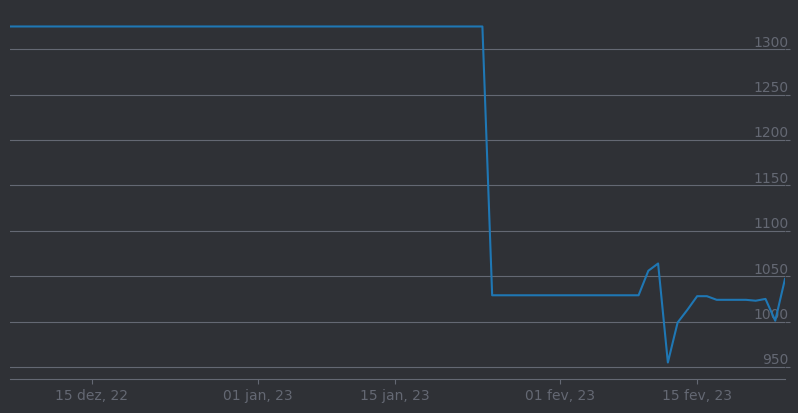
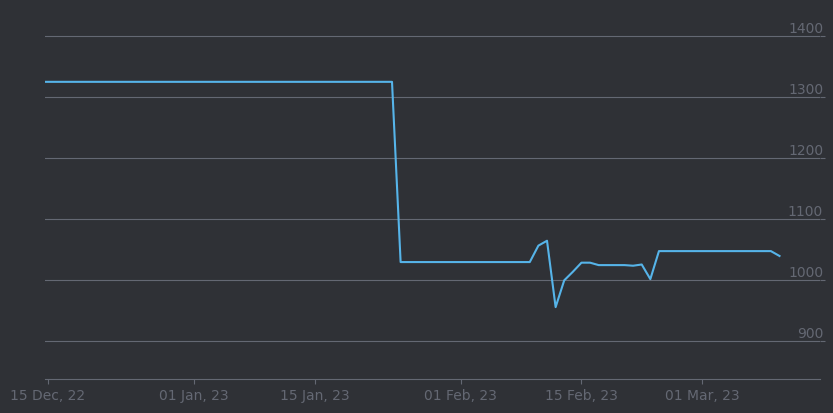
Finished rating history command
yeah done it ez

diff --git a/cogs/users.py b/cogs/users.py
@@ -16,6 +16,140 @@ import datetime
 from utils import constants
 
 
+def graph(data, xmin):
+
+
+    fig = plt.figure()
+    ax = fig.add_subplot()
+
+    grey_color = '#646873'
+
+    fig.set_facecolor('#2f3136')
+    ax.set_facecolor('#2f3136')
+    ax.spines['bottom'].set_color(grey_color)
+    ax.spines['right'].set_color(grey_color)
+    ax.tick_params(axis='x', colors=grey_color)
+    ax.tick_params(axis='y', colors=grey_color,direction='out',pad=-1)
+    ax.yaxis.tick_right()
+    ax.spines[['left','top','right']].set_visible(False)
+    ax.grid(color=grey_color,axis='y')
+    fig.set_figwidth(10)
+
+    formatter = mdates.AutoDateFormatter(mdates.AutoDateLocator())
+    formatter.scaled[365] = "%h, %y"
+    formatter.scaled[30] = "%h, %Y"
+    formatter.scaled[1] = "%d %h, %y"
+
+    ax.xaxis.set_major_formatter(formatter)
+    ax.xaxis.set_major_locator(mdates.AutoDateLocator())
+
+    for variant in data:
+        
+
+        points = variant['points']
+        name = variant['name']
+
+        
+        # Arranging the data 
+
+        dates = []
+        ratings = []
+
+        for entry in points:
+            date = datetime.datetime(year=entry[0], month=entry[1]+1, day=entry[2])
+            dates.append(date)
+
+        ratings = [entry[3] for entry in points]
+        
+
+        # Make lines go straight when there is not data
+
+        for date in dates:
+            index = dates.index(date) 
+            day_before = date - datetime.timedelta(days=1)
+            if day_before not in dates and index !=0:
+                dates.insert(index, day_before)
+                ratings.insert(index, ratings[index-1])
+
+        # Creating the graph and costumizing it
+
+        plt.plot(dates, ratings, color = constants.graph_variants[name]['colour'], dashes=(4,4) if constants.graph_variants[name]['dash'] else (None, None))
+
+
+    ## FINISHING THE GRAPH
+
+
+    # Find ymax and ymin for the graph
+
+
+    if xmin != None:
+            
+        for i in range(len(dates)):
+            if dates[i] >= xmin:
+                xmin_i = i-1 if i!= 0 else i
+                break
+        
+        
+        plt.xlim(xmin, datetime.datetime.today())
+        ymin, ymax = ax.get_ylim()
+        if len(points) == 1:
+            ymax = max(ratings[xmin_i:])
+        plt.ylim(ymin-100,ymax+100)
+
+        
+    else:
+        ymin, ymax = ax.get_ylim()
+        plt.ylim(ymin-100,ymax+100)
+
+    ax.set_yticklabels(ax.get_yticklabels(), ha="right", va="bottom")
+
+    labels = []
+    for label in ax.get_xticklabels():
+        label = label.get_text().title()
+        labels.append(label)
+
+    ax.set_xticklabels(labels)
+
+
+
+    return plt.savefig('utils/media/image.png',bbox_inches='tight')
+
+
+class RHDropdown(discord.ui.Select):
+    def __init__(self, data, xmin):
+        self.data = data
+        self.xmin = xmin
+
+        options = [
+            discord.SelectOption(label='All variants', description='Display all variants.', value='All', emoji='<:rainbowcircle:1085206360691576942>')
+        ]
+        super().__init__(placeholder='Choose the variants you want to see...', min_values=1, max_values=1, options=options)
+
+    async def callback(self, interaction: discord.Interaction):
+
+        name = self.values[0]
+        data = self.data
+        new_data = []
+
+        if name == 'All':
+            new_data = data
+        else:
+            for variant in self.data:
+                if variant['name'] == name:
+                    new_data.append(variant)
+
+        embed = interaction.message.embeds[0]
+        graph(data=new_data, xmin=self.xmin)
+        file = [discord.File('utils/media/image.png', filename="image.png")]
+        embed.set_image(url="attachment://image.png")
+        await interaction.response.edit_message(attachments=file, embed=embed)
+
+
+class RHView(discord.ui.View):
+    def __init__(self):
+        super().__init__()
+
+        # Adds the dropdown to our view object.
 
 class Users(commands.Cog):
     def __init__(self, bot):
@@ -452,24 +586,31 @@ class Users(commands.Cog):
 
     @commands.hybrid_command(aliases=['rh'])
     async def rating_history(self, ctx, username: str, lim = '3m'):
+        
+        ## CREATING THE GRAPH
 
-        # Getting the graph range
+        # Getting the date range of the graph 
 
         limits = {
-            '1m':30,
-            '3m':3*30,
-            '6m':6*30,
-            '1y':12*30,
+            '1w':{'days': 7, 'label': '1 week'},
+            '1m':{'days': 30, 'label': '1 month'},
+            '3m':{'days': 3*30, 'label': '3 months'},
+            '6m':{'days': 6*30, 'label': '6 months'},
+            '1y':{'days': 12*30, 'label': '1 year'},
+            '2y':{'days': 24*30, 'label': '2 years'}
         }
 
         try:
-            days = limits[lim]
+            days = limits[lim]['days']
             xmin = (datetime.datetime.today() - datetime.timedelta(days=days))
+            desc_start = f"Rating history in the past __{limits[lim]['label']}__."
 
         except KeyError:
             if lim.lower() == 'all':
+                desc_start = f"__All time__ rating history."
                 xmin = None
             elif lim.lower() == 'ytd':
+                desc_start = f"Rating history __since the start of this year__."
                 xmin = datetime.datetime(year=datetime.datetime.today().year,month=1,day=1)
             else:
                 embed = constants.LimitErrorEmbed
@@ -477,95 +618,55 @@ class Users(commands.Cog):
                 return
 
 
-        # Retrieving the data from Lichess
-        r = requests.get(url=f"https://lichess.org/api/user/{username}/rating-history")
-        data = r.content
-        user_data = json.loads(r.text)
+        ## REQUESTING DATA FROM LICHESS
+        rh_r = requests.get(url=f"https://lichess.org/api/user/{username}/rating-history")
+        data = rh_r.content
+        rh_data = json.loads(rh_r.text)
+
+        upd_r = requests.get(url=constants.user_public_data+username)
+        data = upd_r.content
+        upd_data = json.loads(upd_r.text)
         
+
         # Just writing it to a file for testing purposes
-        
         with open('data.json', 'wb') as f:
             f.write(data)
-        points = user_data[0]['points']
 
-        # Arranging the data 
+        view = RHView()
+        selectmenu = RHDropdown(rh_data, xmin)
 
-        dates = []
-        ratings = []
+        for variant in rh_data:
+            name = variant['name']
+            selectmenu.add_option(label=name, value=name, emoji=constants.graph_variants[name]['emoji'])
 
-        for entry in points:
-            date = datetime.datetime(year=entry[0], month=entry[1]+1, day=entry[2])
-            dates.append(date)
+        graph(rh_data, xmin)
 
-        ratings = [entry[3] for entry in points]
-
+        # Get the variants
         
-
-        # Make lines go straight when there is not data
-
-        for date in dates:
-            index = dates.index(date) 
-            day_before = date - datetime.timedelta(days=1)
-            if day_before not in dates and index !=0:
-                dates.insert(index, day_before)
-                ratings.insert(index, ratings[index-1])
-
-        # Creating the graph and costumizing it
-
-        fig = plt.figure()
-        ax = fig.add_subplot()
-
-        grey_color = '#646873'
-
-        fig.set_facecolor('#2f3136')
-        ax.set_facecolor('#2f3136')
-        ax.spines['bottom'].set_color(grey_color)
-        ax.spines['right'].set_color(grey_color)
-        ax.tick_params(axis='x', colors=grey_color)
-        ax.tick_params(axis='y', colors=grey_color,direction='out',pad=-1)
-        ax.yaxis.tick_right()
-        ax.spines[['left','top','right']].set_visible(False)
-        ax.grid(color=grey_color,axis='y')
-        fig.set_figwidth(10)
-
-        formatter = mdates.AutoDateFormatter(mdates.AutoDateLocator())
-        formatter.scaled[365] = "%h, %y"
-        formatter.scaled[30] = "%d, %h, %Y"
-        formatter.scaled[1] = "%d %h, %y"
-
-        ax.xaxis.set_major_formatter(formatter)
-        ax.xaxis.set_major_locator(mdates.AutoDateLocator())
-        
-        # Find ymax and ymin for the graph
-
-        plt.plot(dates, ratings)
-
-        if xmin != None:
-                
-            for i in range(len(dates)):
-                if dates[i] >= xmin:
-                    xmin_i = i-1 if i!= 0 else i
-                    break
-
-            plt.xlim(xmin, dates[len(dates)-1])
-            
-        else:
-            ymin, ymax = ax.get_ylim()
-            plt.ylim(ymin-100,ymax+100)
-
-        ax.set_yticklabels(ax.get_yticklabels(), ha="right", va="bottom")
-
         plt.savefig('utils/media/image.png',bbox_inches='tight')
         file = discord.File('utils/media/image.png', filename="image.png")
+
 
         ## Creating the embed
 
         embed = discord.Embed(
+            title=f"{upd_data['title'] if 'title' in upd_data else ''} {upd_data['username']}",
             color=constants.white_color,
-            timestamp=datetime.datetime.utcnow()
+            description=f'{desc_start}\n\nChange the time range by specifying it in the command like this:\n`=rh username [1w, 1m, 3m, 6m, 1y, 2y, ytd or all]`\n',
+            timestamp=datetime.datetime.utcnow(),
+            url=upd_data['url']
         )
         embed.set_image(url="attachment://image.png")
-        await ctx.reply(file=file, embed=embed)
+        embed.set_footer(text=f"Requested by {ctx.author.name}#{ctx.author.discriminator}", icon_url=ctx.author.avatar.url)
+
+        if 'patron' in upd_data:
+            if upd_data['patron']:
+
+                embed.title = constants.lichess_crown + " " + embed.title
+
+
+        view.add_item(selectmenu)
+        await ctx.reply(file=file, view=view, embed=embed)
 
 
 async def setup(bot):

diff --git a/utils/constants.py b/utils/constants.py
@@ -7,6 +7,26 @@ from datetime import datetime
 owner_id = 345928604057731073
 white_color = 0xffffff
 
+# Colours
+
+graph_variants = {
+    'Bullet': {'colour': '#56B4E9', 'dash': False, 'emoji': '<:56B4E9:1085200735710498836>'},
+    'Blitz': {'colour': '#0072B2', 'dash': False, 'emoji': '<:0072B2:1085200798830579875>'},
+    'Rapid': {'colour': '#009E73', 'dash': False, 'emoji': '<:009E73:1085200846087782441>'},
+    'Classical': {'colour': '#459F3B', 'dash': False, 'emoji': '<:459F3B:1085200849170600026>'},
+    'Correspondence': {'colour': '#F0E442', 'dash': True, 'emoji': '<:F0E442:1085200851225812992>'},
+    'Chess960': {'colour': '#E69F00', 'dash': True, 'emoji': '<:E69F00:1085200853746585602>'},
+    'King of the Hill': {'colour': '#D55E00','dash': True, 'emoji': '<:D55E00:1085200855487238236>'},
+    'Three-check': {'colour': '#CC79A7', 'dash': True, 'emoji': '<:CC79A7:1085200858330968155>'},
+    'Antichess': {'colour': '#DF5353', 'dash': True, 'emoji': '<:DF5353:1085200859757019146>'},
+    'Atomic': {'colour': '#66558C', 'dash': True, 'emoji': '<:66558C:1085200861078233228>'},
+    'Horde': {'colour': '#99E699', 'dash': True, 'emoji': '<:99E699:1085200863020204153>'},
+    'Racing Kings': {'colour': '#FFAEAA', 'dash': True, 'emoji': '<:FFAEAA:1085200864521764944>'},
+    'Crazyhouse': {'colour': '#56B4E9', 'dash': True, 'emoji': '<:56B4E9:1085200735710498836>'},
+    'Puzzles': {'colour': '#0072B2', 'dash': True, 'emoji': '<:0072B2:1085200798830579875>'},
+    'UltraBullet': {'colour': '#009E73', 'dash': True, 'emoji': '<:009E73:1085200846087782441>'}
+}
+
 # Bot URLs
 
 user_avatar = "https://twirpz.files.wordpress.com/2015/06/twitter-avi-gender-balanced-figure.png?w=640"
@@ -26,7 +46,6 @@ user_public_data = "https://lichess.org/api/user/"
 # Embeds
 
 
-
 InfoEmbed = discord.Embed(title = "Info", description = """
         Hey, I'm the LichessBot.
         My goal is to be Lichess but in discord.
@@ -42,6 +61,6 @@ InfoEmbed.add_field(name="Invite", value=f"[Link]({invite_url})")
 InviteEmbed = discord.Embed(description=f"[Click here!]({invite_url})",color=white_color)
 
 
-LimitErrorEmbed = discord.Embed(description='```ansi\n\u001b[1;31mPlease specify a valid time range: 1m, 3m, 6m, 1y, ytd or all```', color=discord.Colour.red())
+LimitErrorEmbed = discord.Embed(description='```ansi\n\u001b[1;31mPlease specify a valid time range: 1w, 1m, 3m, 6m, 1y, 2y, ytd or all```', color=discord.Colour.red())
 
 
